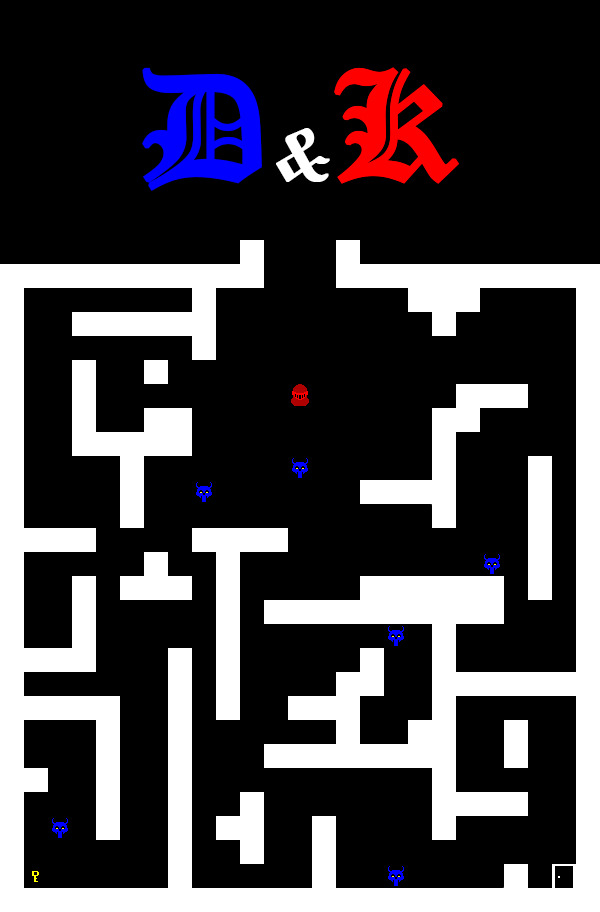
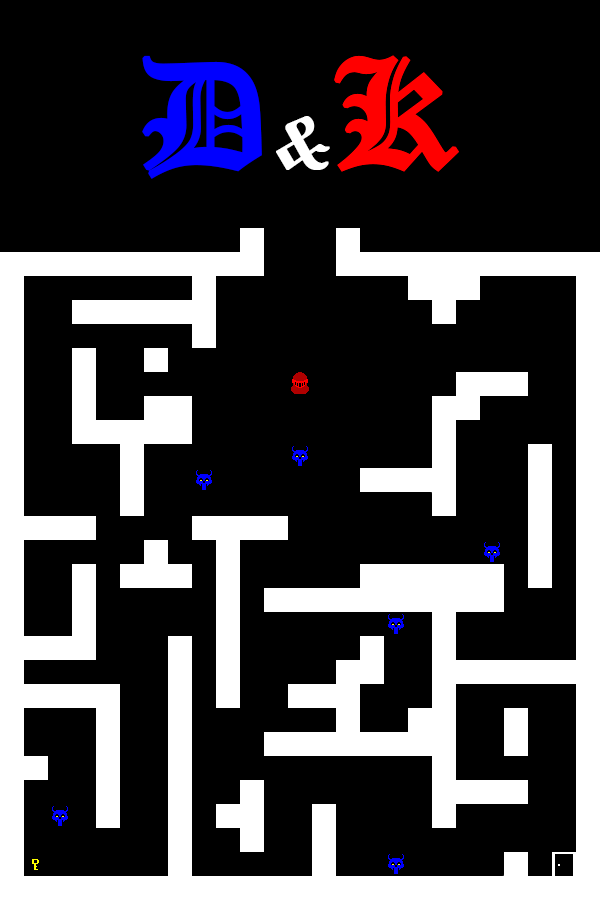
Project-pages

diff --git a/project-pages/project-colonys-block.html b/project-pages/project-colonys-block.html
@@ -69,7 +69,7 @@
             - Change "desktop.jpeg" to the image filename you uploaded in the assets/images folder.
           -->
         <div class="main-title">Colony's Block</div>
-        <div class="body-text">A small description about the project goes here, get the reader hooked on the project and tell them why they should continue to read this page. Give it a sweet tagline.</div>
+        <div class="body-text">In the Multiplatform Application Development degree program, we were able to choose our final-year project. So I chose to create a prototype for an RTS game in Unity.</div>
         <image class="project-header-image" src="../assets/images/img-Colonys_Block/Gameplay.gif">
       </div>
 
@@ -81,10 +81,42 @@
         - Add paragraphs using the <div class="body-text"></div> elements in the "project-details-content"
       -->
       <div id="project-details">
-        <div class="subheader-text">Project Details / Background</div>
+        <div class="subheader-text">Project Details</div>
         <div class="project-details-content">
-          <div class="body-text">Lorem ipsum dolor sit amet, consectetur adipiscing elit, sed do eiusmod tempor incididunt ut labore et dolore magna aliqua. Tristique risus nec feugiat in fermentum. Sed id semper risus in hendrerit gravida. Placerat duis ultricies lacus sed. Id neque aliquam vestibulum morbi blandit cursus risus. Elit pellentesque habitant morbi tristique senectus et netus et. Elementum tempus egestas sed sed risus pretium quam. Nibh ipsum consequat nisl vel pretium lectus quam id leo. Vitae congue mauris rhoncus aenean vel elit.</div>
-          <div class="body-text">Vitae justo eget magna fermentum. Imperdiet nulla malesuada pellentesque elit eget gravida. Aliquet nec ullamcorper sit amet. Aliquet sagittis id consectetur purus. Ac tortor dignissim convallis aenean. Enim neque volutpat ac tincidunt vitae. Lobortis feugiat vivamus at augue. Platea dictumst vestibulum rhoncus est pellentesque elit ullamcorper. Viverra orci sagittis eu volutpat. Massa tincidunt nunc pulvinar sapien et ligula. Donec enim diam vulputate ut.</div>
+			<div class="body-text">
+				<ul>
+					<li>World Generation
+						<ul>
+							<li>Map generation using Minecraft-style cubes, chunks and Perlin noise.</li>
+							<li>Dynamic Navmesh adjusted to the map generation for minion movement.</li>
+							<li>Randomly spawn scenery elements such as trees, rocks and resources.</li>
+							<li>Biome information for texture changes and new maps.</li>
+						</ul>
+					</li>
+					<li>Building System
+						<ul>
+							<li>A farm building for producing food.</li>
+							<li>A storage building to increase resource capacity.</li>
+							<li>A resource system based on food and gold, where each unit and building consumes these resources over time.</li>
+						</ul>
+					</li>
+					<li>Unit Controllers
+						<ul>
+							<li>Unit attributes such as lifespan, food consumption over time and speed.</li>
+							<li>Movement of units across the scene, without animations for jumping between different levels.</li>
+						</ul>
+					</li>
+					<li>User Interface
+						<ul>
+							<li>Design and implementation of the Title Menu.</li>
+							<li>Design and implementation of the Pause Menu.</li>
+							<li>Design and implementation of the HUD.</li>
+						</ul>
+					</li>
+					<li>Game events stored in a local database built using SQL and C#.
+					</li>
+				</ul>
+			</div>
         </div>
       </div>
 
@@ -118,28 +150,28 @@
             -->
             <div class="gallery-image-container half-width">
               <img src="../assets/images/img-Colonys_Block/code1.png" class="gallery-image">
-              <span class="image-caption">Give your image a caption. People love context.</span>
+              <span class="image-caption">Map Generation code (C#).</span>
             </div>
             <div class="gallery-image-container half-width">
               <img src="../assets/images/img-Colonys_Block/code4.png" class="gallery-image">
-              <span class="image-caption">Give your image a caption. People love context.</span>
+              <span class="image-caption">Chunk implementation code (C#).</span>
             </div>
             <div class="gallery-image-container">
               <img src="../assets/images/img-Colonys_Block/Arquitectura.png" class="gallery-image">
-              <span class="image-caption">Give your image a caption. People love context.</span>
+              <span class="image-caption">Game project architecture.</span>
             </div>
 
 			<div class="gallery-image-container half-width">
               <img src="../assets/images/img-Colonys_Block/assets.png" class="gallery-image">
-              <span class="image-caption">Give your image a caption. People love context.</span>
+              <span class="image-caption">Game assets.</span>
             </div>
             <div class="gallery-image-container half-width">
               <img src="../assets/images/img-Colonys_Block/Gameplay2.png" class="gallery-image">
-              <span class="image-caption">Give your image a caption. People love context.</span>
+              <span class="image-caption">Night.</span>
             </div>
             <div class="gallery-image-container">
               <img src="../assets/images/img-Colonys_Block/Gameplay6.png" class="gallery-image">
-              <span class="image-caption">Give your image a caption. People love context.</span>
+              <span class="image-caption">Day.</span>
             </div>
         </div>
       </div>

diff --git a/project-pages/project-bottleneck-PC.html b/project-pages/project-bottleneck-PC.html
@@ -69,7 +69,8 @@
             - Change "desktop.jpeg" to the image filename you uploaded in the assets/images folder.
           -->
         <div class="main-title">Bottleneck PC</div>
-        <div class="body-text">A small description about the project goes here, get the reader hooked on the project and tell them why they should continue to read this page. Give it a sweet tagline.</div>
+        <div class="body-text">Bottleneck PC is a prototype designed for websites that sell hardware components, such as PC Componentes. The aim was to gamify the experience to make it easier to buy parts. We decided to use Unreal Engine 5.2 given our knowledge of the engine and because our next project would be in Unreal Engine 5.</div>
+		<div class="body-text">During this project, I took on the role of Technical Designer.</div>
 		<image class="project-header-image" src="../assets/images/img-BottleneckPC/Bottleneck-headeer.gif"></image>
       </div>
 
@@ -81,11 +82,24 @@
         - Add paragraphs using the <div class="body-text"></div> elements in the "project-details-content"
       -->
       <div id="project-details">
-        <div class="subheader-text">Project Details</div>
-        <div class="project-details-content">
-          <div class="body-text">Lorem ipsum dolor sit amet, consectetur adipiscing elit, sed do eiusmod tempor incididunt ut labore et dolore magna aliqua. Tristique risus nec feugiat in fermentum. Sed id semper risus in hendrerit gravida. Placerat duis ultricies lacus sed. Id neque aliquam vestibulum morbi blandit cursus risus. Elit pellentesque habitant morbi tristique senectus et netus et. Elementum tempus egestas sed sed risus pretium quam. Nibh ipsum consequat nisl vel pretium lectus quam id leo. Vitae congue mauris rhoncus aenean vel elit.</div>
-          <div class="body-text">Vitae justo eget magna fermentum. Imperdiet nulla malesuada pellentesque elit eget gravida. Aliquet nec ullamcorper sit amet. Aliquet sagittis id consectetur purus. Ac tortor dignissim convallis aenean. Enim neque volutpat ac tincidunt vitae. Lobortis feugiat vivamus at augue. Platea dictumst vestibulum rhoncus est pellentesque elit ullamcorper. Viverra orci sagittis eu volutpat. Massa tincidunt nunc pulvinar sapien et ligula. Donec enim diam vulputate ut.</div>
-        </div>
+        <div class="subheader-text">My Contributions</div>
+    		<div class="project-details-content">
+        		<div class="body-text">
+					<ul>
+						<li>I helped to design part of the concept for the experience.</li>
+						<li>Implementation of core systems with Blueprints:
+							<ul>
+								<li>Created a system for moving cameras between elements on the stage. I’m currently applying what I learnt to the Unreal Engine RPG project.</li>
+								<li>Adjusting the lighting on this level.</li>
+								<li>Drag and drop hardware components onto the stage.</li>
+								<li>Instance creation of hardware components following their purchase.</li>
+							</ul>
+						</li>
+						<li>Created the outline and the blueprints to present it.</li>
+						<li>I set up the scene for the prototype by adapting the level design to the camera angles.</li>
+					</ul>
+				</div>
+			</div>
       </div>
 
       <!-- IMAGE GALLERY -->
@@ -118,27 +132,27 @@
             -->
             <div class="gallery-image-container half-width">
               <img src="../assets/images/img-BottleneckPC/Blueprints-controls.png" class="gallery-image">
-              <span class="image-caption">Give your image a caption. People love context.</span>
+              <span class="image-caption">Blueprint for rotating the tower to achieve the best positioning.</span>
             </div>
             <div class="gallery-image-container half-width">
               <img src="../assets/images/img-BottleneckPC/Blueprints-controls2.png" class="gallery-image">
-              <span class="image-caption">Give your image a caption. People love context.</span>
+              <span class="image-caption">Blueprint for dragging components onto the level.</span>
             </div>
 			<div class="gallery-image-container ">
               <img src="../assets/images/img-BottleneckPC/Blueprints-controls3.png" class="gallery-image">
-              <span class="image-caption">Give your image a caption. People love context.</span>
+              <span class="image-caption">Blueprint for the component outline material.</span>
             </div>
 			<div class="gallery-image-container half-width">
               <img src="../assets/images/img-BottleneckPC/FinalVersionGami.png" class="gallery-image">
-              <span class="image-caption">Give your image a caption. People love context.</span>
+              <span class="image-caption">Complete level, excluding components.</span>
             </div>
             <div class="gallery-image-container half-width">
               <img src="../assets/images/img-BottleneckPC/Screnshoot03.png" class="gallery-image">
-              <span class="image-caption">Give your image a caption. People love context.</span>
+              <span class="image-caption">Spawn the unplaced components.</span>
             </div>
 			<div class="gallery-image-container ">
               <img src="../assets/images/img-BottleneckPC/Screnshoot02.png" class="gallery-image">
-              <span class="image-caption">Give your image a caption. People love context.</span>
+              <span class="image-caption">Outline of the assembly table showing the components.</span>
             </div>
         </div>
       </div>

diff --git a/project-pages/project-dusty.html b/project-pages/project-dusty.html
@@ -69,8 +69,9 @@
 				- Change "desktop.jpeg" to the image filename you uploaded in the assets/images folder.
 			-->
 			<div class="main-title">Dusty</div>
-			<div class="body-text">Dusty is a non-commercial third-person puzzle game in which you use an extendable staff to manipulate light. The player explores ruins and unravels the mysteries of the past through the notes in their notebook.</div>
-			<div class="body-text">I took on various roles during development as part of a 30-person team, primarily working as a Game Designer, Cinematics Designer, QA and Marketing.</div>
+			<div class="body-text">Dusty is a non-commercial third-person puzzle game in which you use an extendable staff to manipulate light developed with Unreal Engine 5.3. The player explores ruins and unravels the mysteries of the past through the notes in their notebook. </div>
+			<div class="body-text">This was my final Master’s project at U-tad, where we set up a studio for nine months as part of a team of 30 people.</div>
+			<div class="body-text">I took on various roles during development as part of a 30-person team, primarily working as a Game Designer, Technical Designer and Narrative.</div>
 			<div>
 				<h3>Features</h3>
 				<ul>
@@ -101,35 +102,36 @@
 					<ul>
 						<li>Designed and prototyped core mechanchics and systems:
 							<ul>
-								<li>Sistema de puzles</li>
-								<li>Sistema de salto</li>
+								<li>Designed a puzzle system based on magnetic cubes and light, using an extendable rod.</li>
+								<li>Based on the stick controls, I implemented the conditions for performing jumps with physics at specific points on the game map.</li>
 							</ul>
 						</li>
 						<li>Designed and written the narrative:
 							<ul>
-								<li>Básicamente escribí todo el concepto narrativo.</li>
-								<li>Worldbuilding de las ruinas.</li>
+								<li>I wrote the full story of the game from start to finish to guide the narrative and art teams.</li>
+								<li>Worked with the art team to decide on character and environment designs based on the requirements of the plot, the world and the animations.</li>
+								<li>Structured the ways in which the player could discover the story and lore during a playthrough.</li>
 							</ul>
 						</li>
-						<li>Designed and Implemented the User Interface (UI):
+						<li>Designed and Implemented the User Interface (UI) and UX:
 							<ul>
-								<li>Worked pair to pair with programming members.</li>
-								<li>Implemented main menu: Title Menu, Buttons (New Game, Continue, Settings, Credits, Quit), responsiveness.</li>
-								<li>Implemented the tutorial and a Tooltip System to show videos and tips during the playthrough.</li>
+								<li>Implemented main menu (New Game, Continue, Credits, Quit), Notebook Menu, responsiveness.</li>
+								<li>Implemented the tutorial and a Tooltip System to show controls during the playthrough.</li>
+								<li>Designed the control layout for the control panel and keyboard.</li>
 							</ul>
 						</li>
 						<li> Designed and Implemented the Cinematics Tráiler y cuatro más.
 							<ul>
-								<li>Las creé en Level Sequencer.</li>
-								<li>Las coloqué con su propio sistema para que se disparasen.</li>
-								<li>Hice el tráiler.</li>
+								<li>Created all the cutscenes in the game using Level Sequencer.</li>
+								<li>Developed and implemented a trigger system to play cutscenes using Blueprints and C++.</li>
+								<li>I created the trailer for the game’s release and published it alongside the Steam page</li>
 							</ul>
 						</li>
 						<li>Marketing
 							<ul>
 								<li>Successfully pitched the game to different stakeholders.</li>
-								<li>Manejo de las redes sociales.</li>
-								<li>Montaje de stan en ferias de videojuegos.</li>
+								<li>Ran the social media marketing campaign alongside the executive producer.</li>
+								<li>At video game trade fairs, I was responsible for setting up the stands and carrying out testing plans involving up to 100 players.</li>
 							</ul>
 						</li>
 					</ul>

diff --git a/project-pages/project-demons&knights.html b/project-pages/project-demons&knights.html
@@ -25,7 +25,7 @@
       This should be the same across all pages.
      -->
      <link rel="icon" href="../assets/images/1311.png" />
-     <title>Demons&Knight</title>
+     <title>Demons & Knight</title>
     <meta name="description" content="A portfolio template for the Unemployables community.">
     <meta name="viewport" content="width=device-width, initial-scale=1" />
 
@@ -69,7 +69,7 @@
             - Change "desktop.jpeg" to the image filename you uploaded in the assets/images folder.
           -->
         <div class="main-title">Demons & Knight</div>
-        <div class="body-text">A small description about the project goes here, get the reader hooked on the project and tell them why they should continue to read this page. Give it a sweet tagline.</div>
+        <div class="body-text">I chose to work on this project whilst I was at 42 Madrid to learn about computer graphics. It’s a game in the style of classic roguelikes, where the aim is to find the key and escape the level.</div>
         <image class="project-header-image" src="../assets/images/img-D&K/genericmap.gif">
       </div>
 
@@ -81,11 +81,14 @@
         - Add paragraphs using the <div class="body-text"></div> elements in the "project-details-content"
       -->
       <div id="project-details">
-        <div class="subheader-text">Project Details / Background</div>
+        <div class="subheader-text">Project Details</div>
         <div class="project-details-content">
-          <div class="body-text">Lorem ipsum dolor sit amet, consectetur adipiscing elit, sed do eiusmod tempor incididunt ut labore et dolore magna aliqua. Tristique risus nec feugiat in fermentum. Sed id semper risus in hendrerit gravida. Placerat duis ultricies lacus sed. Id neque aliquam vestibulum morbi blandit cursus risus. Elit pellentesque habitant morbi tristique senectus et netus et. Elementum tempus egestas sed sed risus pretium quam. Nibh ipsum consequat nisl vel pretium lectus quam id leo. Vitae congue mauris rhoncus aenean vel elit.</div>
-          <div class="body-text">Vitae justo eget magna fermentum. Imperdiet nulla malesuada pellentesque elit eget gravida. Aliquet nec ullamcorper sit amet. Aliquet sagittis id consectetur purus. Ac tortor dignissim convallis aenean. Enim neque volutpat ac tincidunt vitae. Lobortis feugiat vivamus at augue. Platea dictumst vestibulum rhoncus est pellentesque elit ullamcorper. Viverra orci sagittis eu volutpat. Massa tincidunt nunc pulvinar sapien et ligula. Donec enim diam vulputate ut.</div>
-        </div>
+        	<div class="body-text">The aim of the Demons & Knight (So_Long) project is to develop a game that incorporates map rendering, character movement, collision detection, item collection, and victory and defeat conditions.</div>
+        	<div class="body-text">Allows you to load and render game maps stored in a file with a .ber extension. The map consists of different tiles representing walls, paths, collectible items, the player's starting position, and the exit. The MinilibX library provides functions to render graphical elements on the screen, enabling you to display the map with the appropriate textures and colors.</div>
+			<div class="body-text">The player can move in four directions: up, down, left, and right, within the bounds of the map. By handling keyboard inputs, you can update the player's position on the screen accordingly.</div>
+			<div class="body-text">The player cannot pass through walls or go beyond the boundaries of the map, thanks to a collision detection system. The game checks whether the movement performed will result in a collision with a wall, an enemy, the edge of the map or an item.</div>
+			<div class="body-text">The victory condition is met when the player successfully reaches the finish tile. On the other hand, the defeat condition can be triggered by colliding with enemies.</div>
+		</div>
       </div>
 		<a class="button" href="https://github.com/albmarey/DemonsAndKnight">
           <span class="button-text">Github repository</span>

diff --git a/project-pages/project-marvin.html b/project-pages/project-marvin.html
@@ -69,7 +69,8 @@
             - Change "desktop.jpeg" to the image filename you uploaded in the assets/images folder.
           -->
         <div class="main-title">42 Madrid Game Jam</div>
-        <div class="body-text">A small description about the project goes here, get the reader hooked on the project and tell them why they should continue to read this page. Give it a sweet tagline.</div>
+        <div class="body-text">Whilst I was at 42 Madrid, the programme’s first-ever Game Jam took place, and some of my fellow students persuaded me to take part. This project is the story of my first game jam.</div>
+		<div class="body-text">It turns out that being ill, pizza and working for 48 hours straight make for a rather unusual combination.</div>
         <image class="project-header-image" src="../assets/images/img-You_Will Never_Win_this Broken_Game/Ipromisedyou.png">
       </div>
 
@@ -81,10 +82,16 @@
         - Add paragraphs using the <div class="body-text"></div> elements in the "project-details-content"
       -->
       <div id="project-details">
-        <div class="subheader-text">Project Details / Background</div>
+        <div class="subheader-text">The story</div>
         <div class="project-details-content">
-          <div class="body-text">Lorem ipsum dolor sit amet, consectetur adipiscing elit, sed do eiusmod tempor incididunt ut labore et dolore magna aliqua. Tristique risus nec feugiat in fermentum. Sed id semper risus in hendrerit gravida. Placerat duis ultricies lacus sed. Id neque aliquam vestibulum morbi blandit cursus risus. Elit pellentesque habitant morbi tristique senectus et netus et. Elementum tempus egestas sed sed risus pretium quam. Nibh ipsum consequat nisl vel pretium lectus quam id leo. Vitae congue mauris rhoncus aenean vel elit.</div>
-          <div class="body-text">Vitae justo eget magna fermentum. Imperdiet nulla malesuada pellentesque elit eget gravida. Aliquet nec ullamcorper sit amet. Aliquet sagittis id consectetur purus. Ac tortor dignissim convallis aenean. Enim neque volutpat ac tincidunt vitae. Lobortis feugiat vivamus at augue. Platea dictumst vestibulum rhoncus est pellentesque elit ullamcorper. Viverra orci sagittis eu volutpat. Massa tincidunt nunc pulvinar sapien et ligula. Donec enim diam vulputate ut.</div>
+        	<div class="body-text">Basically, the theme of the Game Jam was colours. Our team of three, including myself, decided we’d make a roguelike in the style of *The Binding of Isaac*, with a single level where the enemies and doors would be colour-coded.</div>
+        	<div class="body-text">One of us created the 2D assets and the combat logic; we later realised that these could be created in black and white and the colours changed within the engine, rather than creating them individually. My second colleague was in charge of the entire interface and the player controls. Finally, I took charge of the procedural map generation, as that was what I knew best.</div>
+			<div class="body-text">We worked separately, keeping track of our progress, and on the final day, about three hours before the deadline, we decided to merge our results. It turned out that we’d been working on different versions of Unity. When we merged everything, our projects crashed, and whilst trying to sort it out, we ended up losing some files.</div>
+			<div class="body-text">In the end, we decided to hand in the project anyway, adding clown music and a world map with endless enemy spawns, so at least something was salvaged.</div>
+			<div class="body-text">This was one of the most enjoyable experiences I had whilst learning the art of game development.</div>
+			<a class="button" href="https://tat-dev.itch.io/you-will-never-win-this-broken-game">
+        	<span class="button-text">itch.io</span>
+    		</a>
         </div>
       </div>
 

diff --git a/index.html b/index.html
@@ -83,7 +83,7 @@
             <img src="./assets/images/imge-Dusty/keyart-dusty-600x900.png" class="gallery-image-container">
             <div class="project-card-text-container">
               <div class="subheader-text project-title">Dusty</div>
-              <div class="body-text project-card-text">Dusty is a third-person puzzle game focused on explore beautiful environments with 4.000 downloads where I worked on multiple roles, but mainly as game designer.</div>
+              <div class="body-text project-card-text">Dusty is a third-person puzzle game centred on exploring the past, with 4,000 downloads, on which I worked primarily as a game designer.</div>
             </div>
             <a class="button" href="./project-pages/project-dusty.html">
               <span class="button-text">Read More</span>
@@ -109,7 +109,7 @@
               <img src="./assets/images/img-D&K/Demons&Knights-keyart.png" class="gallery-image-container">
               <div class="project-card-text-container">
                 <div class="subheader-text project-title">Demons & Knights</div>
-                <div class="body-text project-card-text">Demons & Knights is a retro game I made using a custom library in C, where I generate the map and place the images, collisions and enemies pixel by pixel.</div>
+                <div class="body-text project-card-text">Demons & Knights is a roguelike I made using a custom library in C, where I generate the map and place the images, collisions and enemies pixel by pixel.</div>
               </div>
               <a class="button" href="./project-pages/project-demons&knights.html">
                 <span class="button-text">Read More</span>
@@ -122,7 +122,7 @@
               <img src="./assets/images/img-You_Will Never_Win_this Broken_Game/You-will-never-win-this-game-keyart.png" class="gallery-image-container">
               <div class="project-card-text-container">
                 <div class="subheader-text project-title">My first Game Jam</div>
-                <div class="body-text project-card-text">My first game jam, which ended in disaster, but where we learnt a great deal about Unity, 2D assets and switching between versions of a game engine.</div>
+                <div class="body-text project-card-text">My first game jam, which ended in disaster, but where we learnt a great deal about Unity and switching between versions of a game engine.</div>
               </div>
               <a class="button" href="./project-pages/project-marvin.html">
                 <span class="button-text">Read More</span>
@@ -135,7 +135,7 @@
               <img src="./assets/images/img-Colonys_Block/ColonysBlock-Keyart.png" class="gallery-image-container">
               <div class="project-card-text-container">
                 <div class="subheader-text project-title">Colony's Block</div>
-                <div class="body-text project-card-text">A procedural voxel generator built in Unity, featuring RTS gameplay and events stored in a local database.</div>
+                <div class="body-text project-card-text">A procedural voxel generator built in Unity, featuring RTS gameplay, events stored in a local database, resouces system and day-night cycle.</div>
               </div>
               <a class="button" href="./project-pages/project-colonys-block.html">
                 <span class="button-text">Read More</span>
